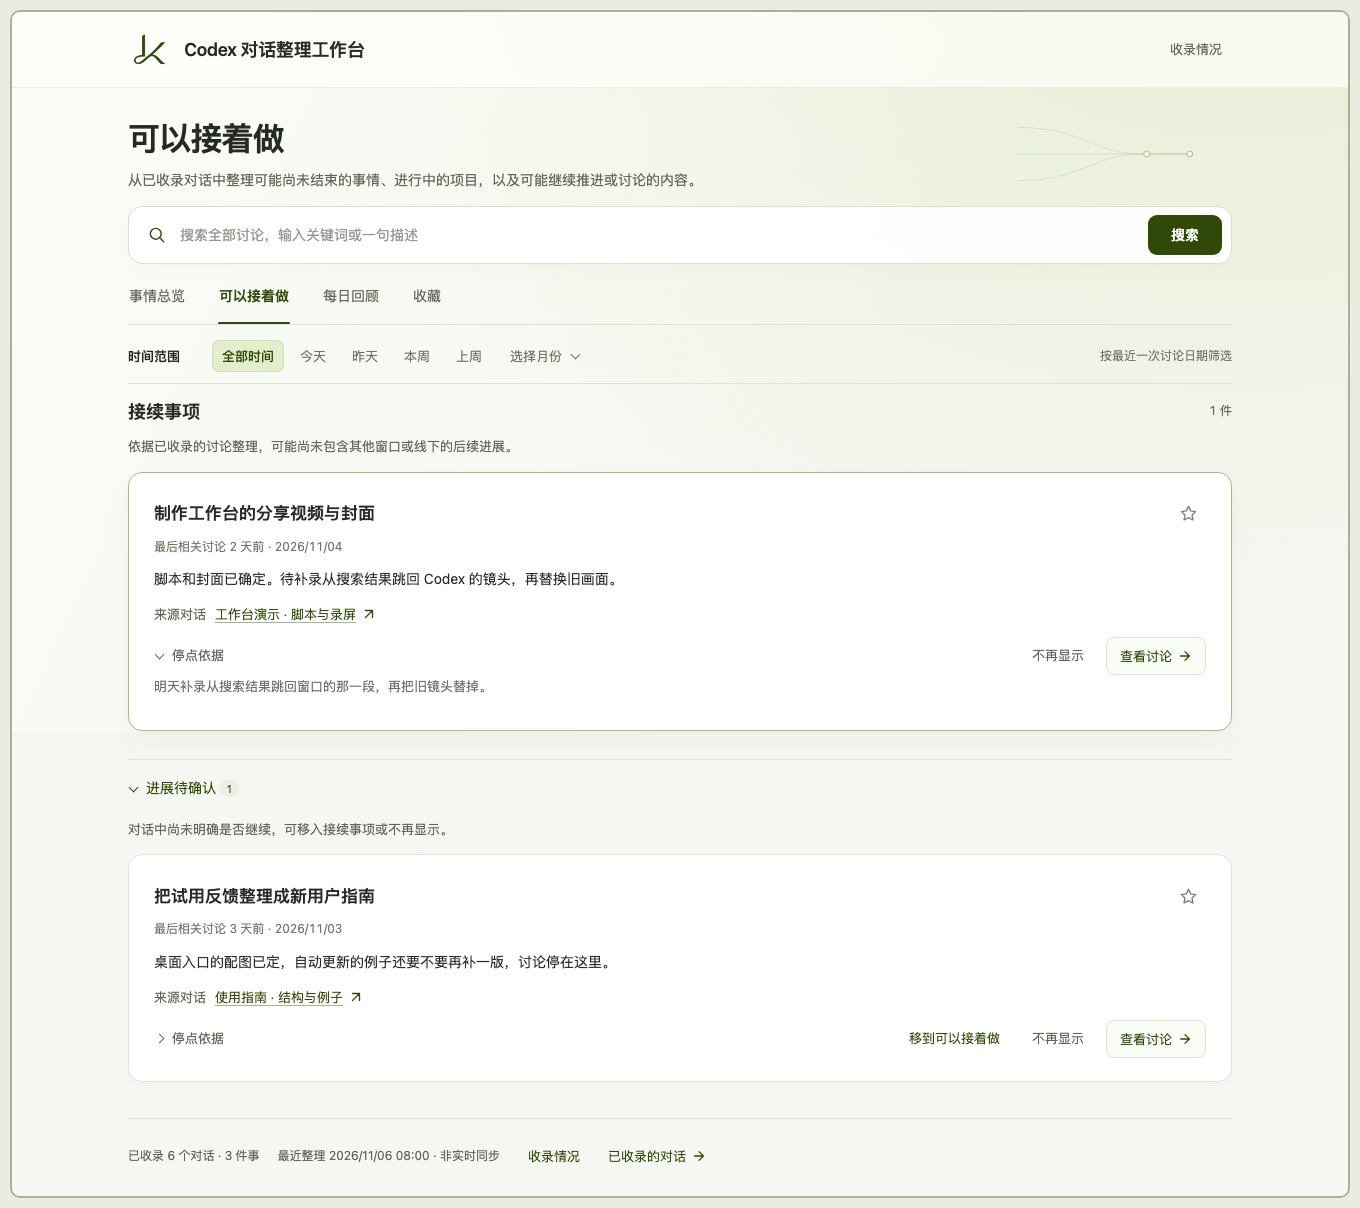
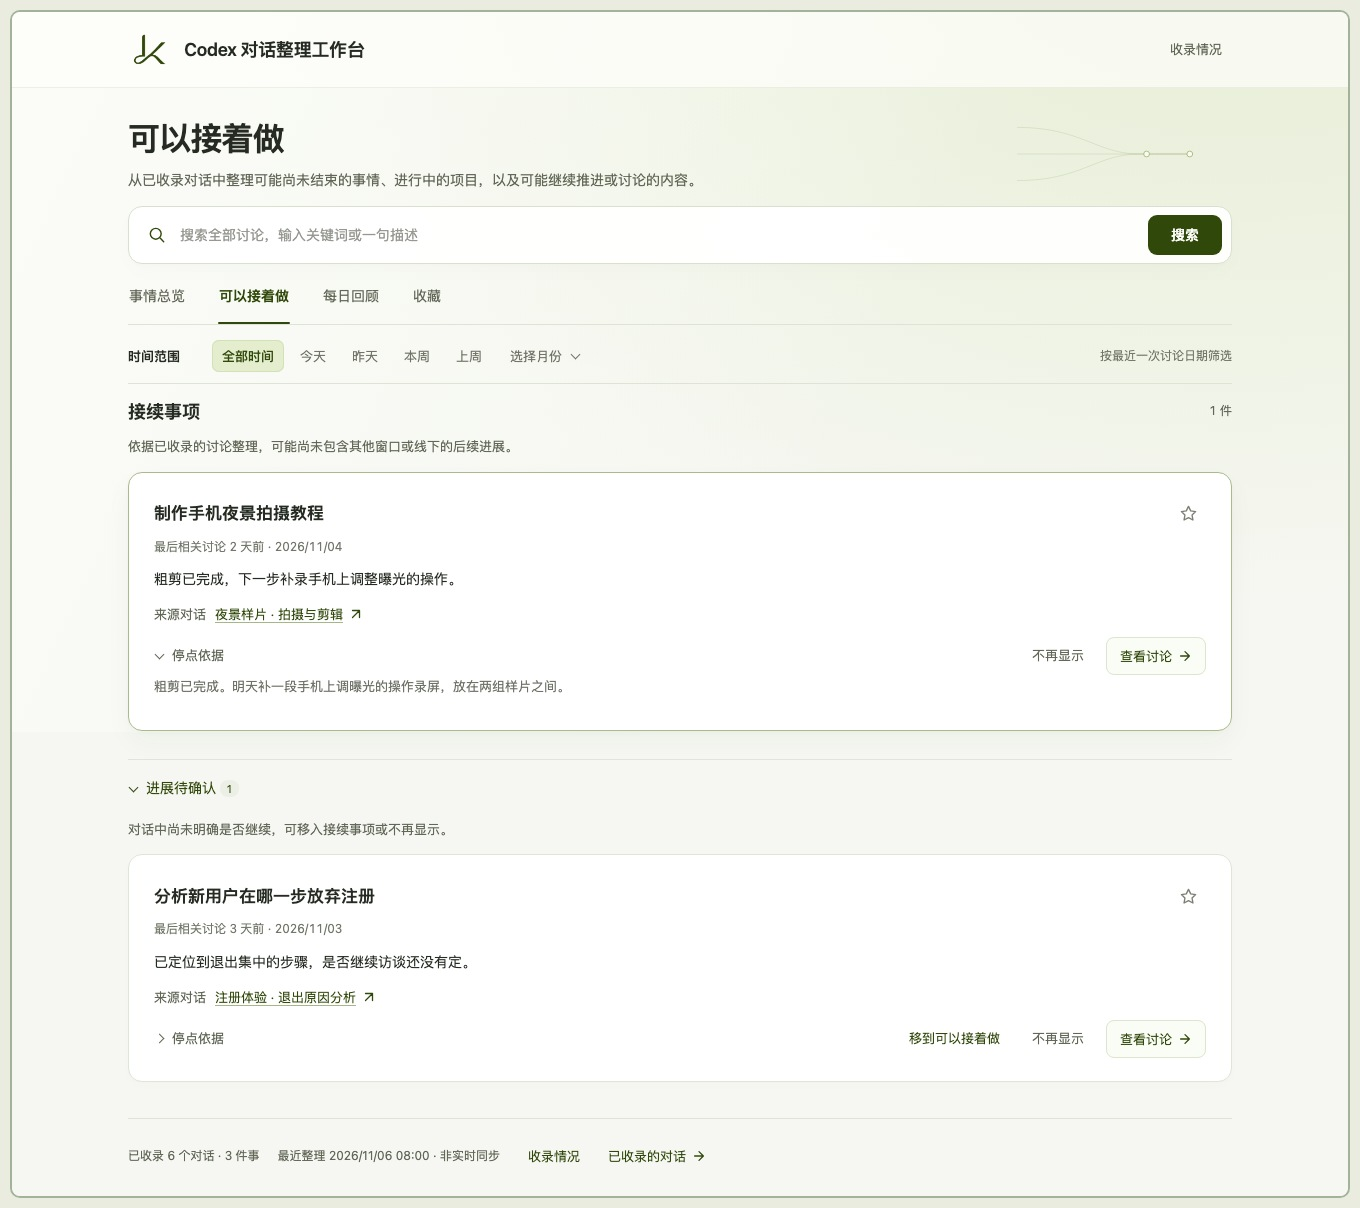
Explain the workflow briefly and align screenshot examples with their goals

diff --git a/README.md b/README.md
@@ -8,43 +8,40 @@
 
 ![事情总览全貌，包含搜索框、四个页面入口、时间和类型筛选，以及带来源窗口的事项卡片](docs/images/workbench-overview.jpg)
 
+*图中的工作台建设为本项目案例，拍摄教程和注册体验研究为模拟示例。*
+
 ## 三个使用场景
 
 ### 1. 一件事聊了好几个窗口，想看清它是怎么定下来的
 
-上图第一张卡片是这个工作台自己的建设记录。它跨了两个 Codex 窗口。下面选取其中三周的 12 段讨论，看看「为什么要做桌面启动入口」这个问题如何找到答案。
+- **按事情看。** 在「事情总览」选一件事，先读小结，再看关键决定和讨论经过。想知道某个决定是怎么来的，点一下就能回到对应的原话。
 
-- **先看小结。** 在「事情总览」打开一张卡片，就能看到这件事做到哪一步，以及过程中有哪些决定和变化。
-- **再核对原话。** 10 月 30 日，用户反馈昨天能打开的网页，今天点原地址却打不开了。当天随后定下了 Mac 和 Windows 都要有桌面入口。点决定可看对应讨论，选「固定打开入口」可只看这个主题的来龙去脉。
+![事项详情，展示小结、关键决定、跨窗口的讨论经过和选中的原文段落。教程内容为模拟示例](docs/images/workbench-detail.jpg)
 
-![工作台建设详情，展开五条决定，左侧列出讨论经过，右侧显示第二天打不开网页时的原话](docs/images/workbench-detail.jpg)
+- **按日期看。** 如果你只记得是哪天聊的，打开「每日回顾」，选中日期，就能一起看到那天推进的几件事。展开其中一件，可以查看当天的讨论。
 
-**如果你记得的是日期**，打开「每日回顾」。同样是 10 月 30 日，这次放在一起的是当天推进的三件事。展开工作台这一项，就能依次看到遇到的问题、提出的方案和最后的决定。
-
-![10 月 30 日的每日回顾，列出三件事，并展开工作台当天的三段讨论](docs/images/workbench-daily.jpg)
+![每日回顾，按天集中展示事项和当天的讨论](docs/images/workbench-daily.jpg)
 
 ### 2. 明明聊过，却忘了窗口名，也记不清原话
 
-- **用记得的词搜。** 下图搜的是「Codex 工作台」。切到「整理后的事项」，安装工作台、开发并开源、制作分享视频这三件事都出现在「事项标题匹配」中。搜索框下方会说明已经收录的日期范围。
+- **用记得的词搜。** 输入关键词或一句大概的描述。在「Codex 窗口」找原对话，在「整理后的事项」找围绕同一件事的讨论。搜索框下方列出了已收录的日期范围。
 - **看看是不是那次讨论。** 先读小结，再展开匹配片段看前后文。如果直接命中的结果都不对，还可以看「可能是你要找的」里的相近候选。
 - **回原窗口继续。** 点击带 ↗ 的来源对话名，就能在 Codex 打开对应窗口。
 
 ![在当前工作台搜索“Codex 工作台”，可切换 Codex 窗口和整理后的事项，图中显示三个事项标题命中](docs/images/workbench-search.jpg)
 
-想直接找某个窗口时，切到 **Codex 窗口**，可以按窗口名或对话正文查找。
-
 ### 3. 过了几天，想知道上次停在哪里、还有什么可以继续
 
-打开「可以接着做」，能看到上次停下来的原因。下面用分享视频和使用指南两个模拟事项举例。
+打开「可以接着做」，可以看到上次讨论停在哪里。
 
-- **有明确下一步。** 视频的脚本和封面都已定，剩下的是补录从搜索结果跳回 Codex 的镜头。点「停点依据」可以核对当时怎么说的。
-- **进展待确认。** 指南里要不要再补一个例子，当时还没定。还想做就移入接续事项，已经在别处处理完就选「不再显示」。
+- **接续事项。** 有明确下一步的事情列在这里。点「停点依据」核对当时的讨论，再回原窗口继续。
+- **进展待确认。** 如果记录里看不出还要不要继续，可以把它移入接续事项，或选「不再显示」。
 
-![可以接着做，分别展示待补录的视频镜头及需要确认的指南示例](docs/images/workbench-tasks.jpg)
+![可以接着做，分别展示有明确下一步的事项和进展待确认的事项](docs/images/workbench-tasks.jpg)
 
-**想留到下次再看**，点事项旁的 ☆，之后从「收藏」直接打开。收藏保存在当前浏览器，普通重启通常会保留；清除本站数据后会丢失。
+**想留到下次再看**，点事项旁的 ☆，之后从「收藏」直接打开。收藏保存在当前浏览器，普通重启通常会保留，清除本站数据后会丢失。
 
-![收藏页，集中回看工作台建设、分享视频和使用指南](docs/images/workbench-favorites.jpg)
+![收藏页，集中显示已加星的事项](docs/images/workbench-favorites.jpg)
 
 ## 开始使用
 
